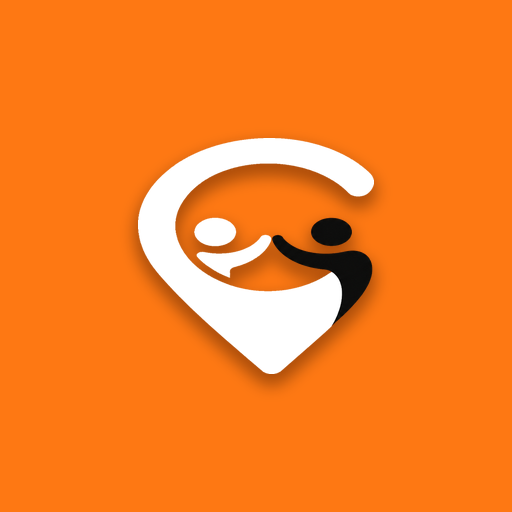
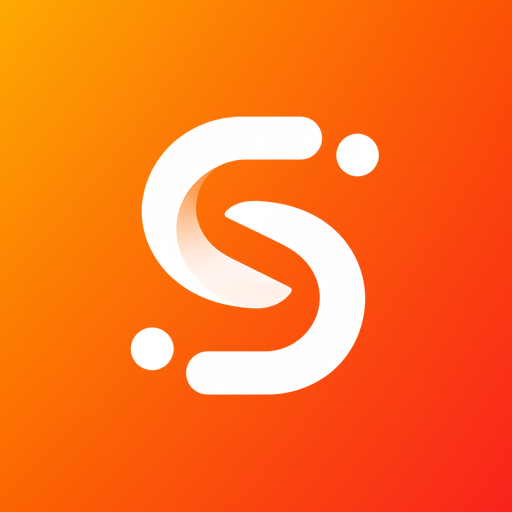
fix(marka): PWA simgeleri de yeni logoya gecti
Kullanici bildirdi (2026-08-25): telefonun ana ekranindaki kisayolda
eski logo duruyordu.

Sebep: PWA simgeleri public/ altinda AYRI dosyalar (pwa-192,
pwa-512, pwa-512-maskable) ve web derlemesine oldugu gibi
kopyalaniyorlar; app.json'daki 'icon' onlara dokunmuyor. Logo
degistiginde bu ucu elle guncellenmediginde eski logo yasamaya devam
ediyor.

Uculu artik araclar/simge-uret.py tarafindan ayni kaynaktan
uretiliyor, yani bir daha unutulmayacak. Maskelenebilir surumde isaret
guvenli alanda kaliyor: Android simgeyi daire ya da kare maskeyle
kirpiyor.

49 paket / 416 test yesil.

diff --git a/mobil/araclar/simge-uret.py b/mobil/araclar/simge-uret.py
@@ -175,12 +175,31 @@ def main():
     yaz(turuncu.resize((512, 512), Image.LANCZOS), 'assets/images/marka-isareti-acik.png')
     yaz(beyaz.resize((512, 512), Image.LANCZOS), 'assets/images/marka-isareti-koyu.png')
 
-    # 5) ACIK SURUM: beyaz zemin, turuncu isaret. Ayni kirpma
+    # 5) PWA simgeleri. Bunlar `public/` altinda duruyor ve web
+    #    derlemesine oldugu gibi kopyalaniyor; app.json'daki `icon`
+    #    onlara DOKUNMUYOR. Logo degistiginde burasi unutulursa
+    #    telefonun ana ekranindaki kisayol eski logoyu gostermeye devam
+    #    ediyor (kullanici 2026-08-25'te bunu bildirdi).
+    yaz(simge.resize((192, 192), Image.LANCZOS), 'public/pwa-192.png')
+    yaz(simge.resize((512, 512), Image.LANCZOS), 'public/pwa-512.png')
+
+    # Maskelenebilir surum: Android simgeyi daire/kare maskeyle kirpiyor,
+    # bu yuzden isaret guvenli alanda kalacak sekilde kucultuluyor.
+    maskeli = gradyan(512).convert('RGBA')
+    ic = simge.convert('RGBA').resize((int(512 * 0.66), int(512 * 0.66)), Image.LANCZOS)
+    # Kiremitin kendi zemini var; yalnizca isaret gerekiyor.
+    ic_alfa = alfa.resize(ic.size, Image.LANCZOS)
+    beyaz_ic = Image.new('RGBA', ic.size, (255, 255, 255, 255))
+    beyaz_ic.putalpha(ic_alfa)
+    maskeli.paste(beyaz_ic, ((512 - ic.size[0]) // 2, (512 - ic.size[1]) // 2), beyaz_ic)
+    yaz(maskeli.convert('RGB'), 'public/pwa-512-maskable.png')
+
+    # 6) ACIK SURUM: beyaz zemin, turuncu isaret. Ayni kirpma
     #    geometrisiyle uretiliyor ki koyu surumle birebir ortussun.
     acik = acik_surum(alfa)
     yaz(acik.resize((1024, 1024), Image.LANCZOS), '../tasarim/slooin-simge-2-acik.png')
 
-    # 6) Tasarim klasorune referans kopya.
+    # 7) Tasarim klasorune referans kopya.
     yaz(simge.resize((512, 512), Image.LANCZOS), '../tasarim/slooin-simge-2.png')
 
 
